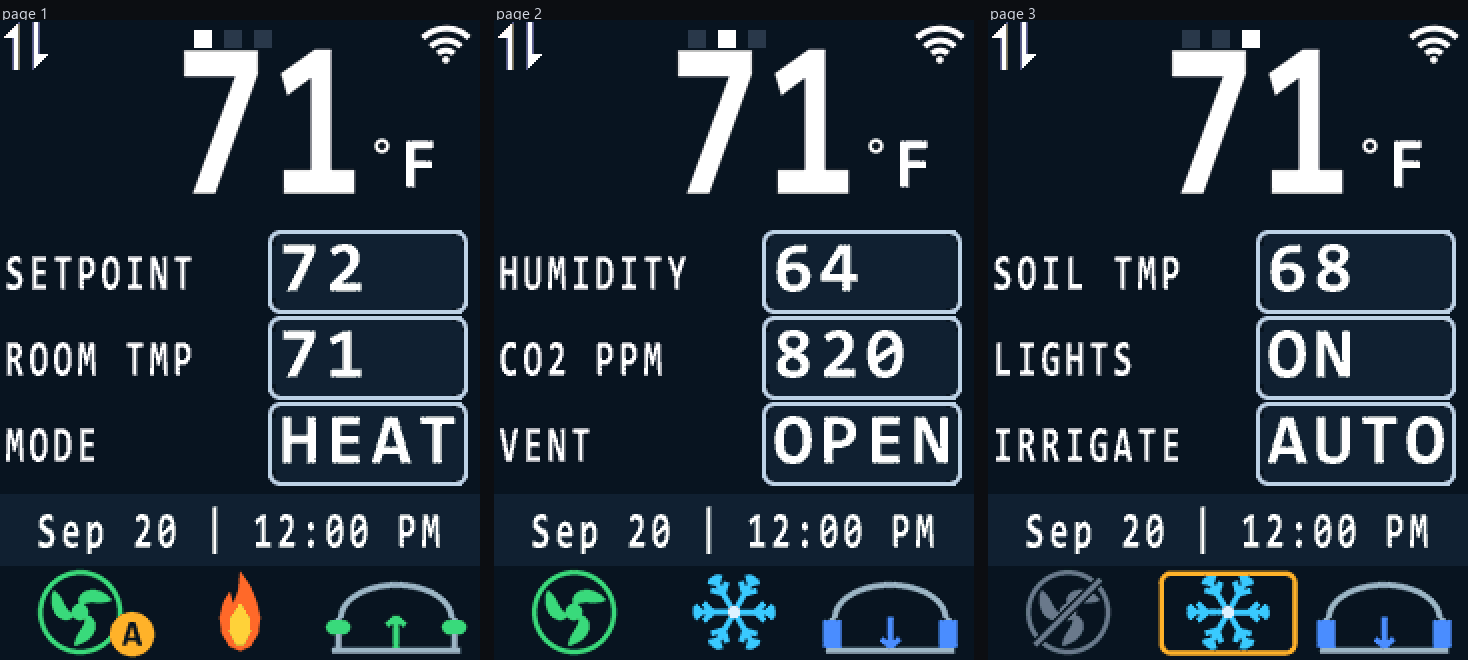
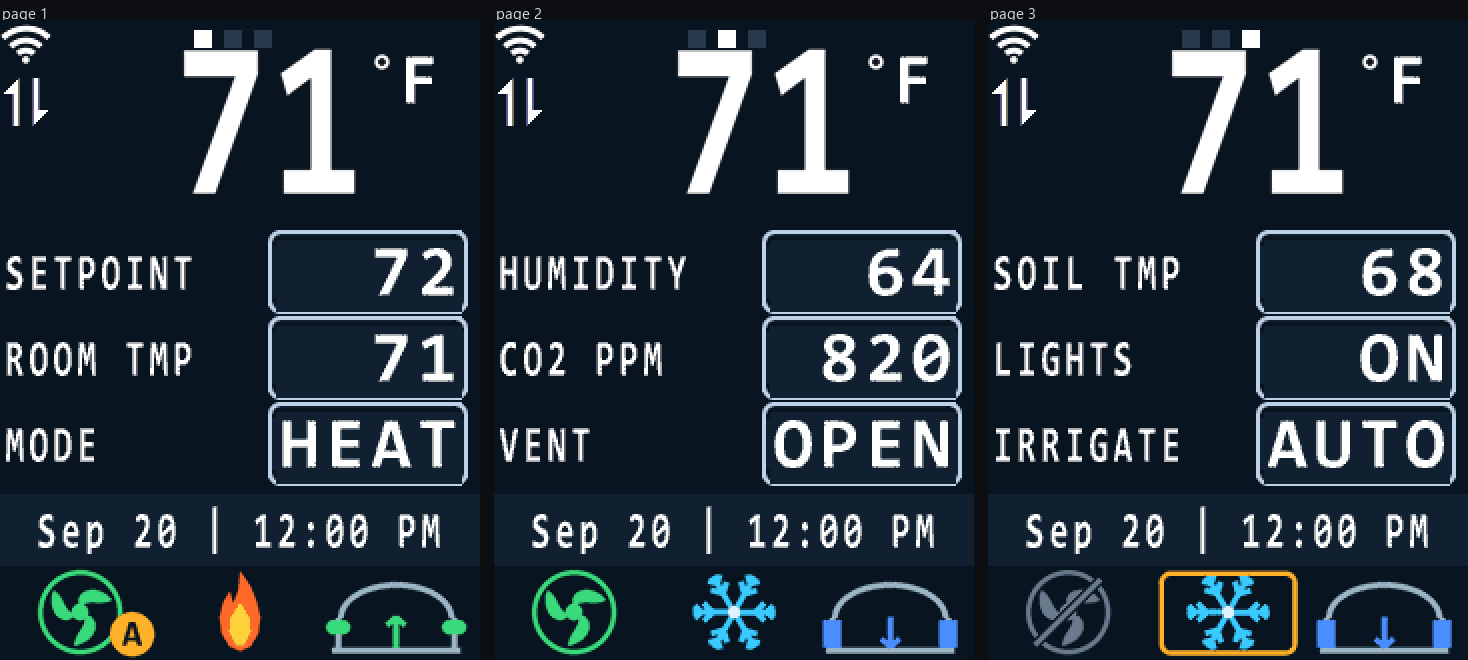
Link corner top left, unit at the cap line, values centred and right justified
Four layout changes.

The wifi bars move from the top right to the top left and the RS485 send
and receive arrows stack underneath them, so everything about the link is
in one corner.  Both sit left of FIRST_CH_POS (39), so the column is
clear of the big number for its whole height.

The unit moves from the foot of the number to its cap line.  The digits
are drawn from the top of a 96 dot cell but their ink only starts nine
rows in, so top aligning the unit means UNIT_YPOS is THERM_METER_POS +
CHLIB_CAP_TOP, not THERM_METER_POS.  All nine unit draw sites and both
degree rings move together.

The value text drops two dots so its ink centres in the box: draw_tangle()
runs the box from y-3 to y+40 and the 15x30 face inks rows 4 to 28 of its
cell, which sits two dots high without the offset.

A value shorter than four characters is right justified, so the units
column of a number stays in one place as the number grows.  That also
fixes a repaint bug: sprintf leaves a terminator part way along the
buffer, which stopped disp_str() before it repainted the rest of the box,
so going from AUTO to 72 left TO behind.  justify_value() squares the
full width off with spaces before shifting, which the old
spbuf[VALUE_CHARS] = 0 did not.

Every position is a named constant now rather than a literal, so the
simulator reads the same numbers the firmware compiles.

diff --git a/arm/HARDWARE/LCD/ER-TFT024-3_4-Wire_SPI.c b/arm/HARDWARE/LCD/ER-TFT024-3_4-Wire_SPI.c
@@ -782,6 +782,32 @@ void display_screen_value(uint8 type)
 
 /* The same, but the row and the VAR it shows are chosen separately, so a page
  * past the first can put VAR4 on row 1. */
+/* The value boxes are VALUE_CHARS cells wide and what lands in them runs from
+ * one character to four.  sprintf leaves a terminator part way along, which
+ * would stop disp_str() before it repainted the rest of the box and leave the
+ * tail of a longer previous value behind, so the full width is squared off with
+ * spaces first.  A short value is then pushed right, which keeps the units
+ * column of a number in one place as the number grows -- that is the column the
+ * eye tracks while a reading changes. */
+static void justify_value(uint8 *buf)
+{
+	uint8 len = 0, pad, i;
+
+	while(len < VALUE_CHARS && buf[len] != 0)
+		len++;
+	for(i = len;i < VALUE_CHARS;i++)
+		buf[i] = 0x20;
+	buf[VALUE_CHARS] = 0;
+
+	while(len > 0 && buf[len - 1] == 0x20)
+		len--;
+	pad = (uint8)(VALUE_CHARS - len);
+	if(len == 0 || pad == 0)
+		return;
+	for(i = VALUE_CHARS;i > 0;i--)
+		buf[i - 1] = (i > pad) ? buf[i - 1 - pad] : 0x20;
+}
+
 void display_screen_value_var(uint8 type, uint8 var_index)
 {
     int i = 0;
@@ -936,14 +962,14 @@ void display_screen_value_var(uint8 type, uint8 var_index)
 			}
     }
 		
-		spbuf[VALUE_CHARS] = 0;		// the box holds four, whatever sprintf produced
+		justify_value(spbuf);		// square the box off, then push a short value right
 
 		if(type == 1)	        
-			disp_str(FORM15X30, VALUE_XPOS, SETPOINT_POS, spbuf, SCH_COLOR, TSTAT8_MENU_COLOR2);
+			disp_str(FORM15X30, VALUE_XPOS, SETPOINT_POS + VALUE_YOFF, spbuf, SCH_COLOR, TSTAT8_MENU_COLOR2);
     else if (type == 2)
-			disp_str(FORM15X30, VALUE_XPOS, FAN_MODE_POS, spbuf, SCH_COLOR, TSTAT8_MENU_COLOR2);
+			disp_str(FORM15X30, VALUE_XPOS, FAN_MODE_POS + VALUE_YOFF, spbuf, SCH_COLOR, TSTAT8_MENU_COLOR2);
     else if (type == 3)
-      disp_str(FORM15X30, VALUE_XPOS, SYS_MODE_POS, spbuf, SCH_COLOR, TSTAT8_MENU_COLOR2);
+      disp_str(FORM15X30, VALUE_XPOS, SYS_MODE_POS + VALUE_YOFF, spbuf, SCH_COLOR, TSTAT8_MENU_COLOR2);
 }
 
 void display_SP(int16 disp_setpoint)
@@ -1872,51 +1898,51 @@ void Top_area_display(uint8 item, int16 value, uint8 unit)
     if(unit == TOP_AREA_DISP_UNIT_C)
 		{			
 			//disp_null_icon(240, 36, 0, 0,TIME_POS,TSTAT8_CH_COLOR, TSTAT8_MENU_COLOR2);
-			disp_icon(14, 14, degree_o, UNIT_POS - 14,56 ,TSTAT8_CH_COLOR, TSTAT8_BACK_COLOR);
+			disp_icon(14, 14, degree_o, UNIT_POS - 14,UNIT_YPOS ,TSTAT8_CH_COLOR, TSTAT8_BACK_COLOR);
 		
 			if(value>1000)
 				display_dec(0);
 			else
 				display_dec(0);
-				disp_str(FORM15X30, UNIT_POS,56,"C",TSTAT8_CH_COLOR,TSTAT8_BACK_COLOR);
+				disp_str(FORM15X30, UNIT_POS,UNIT_YPOS,"C",TSTAT8_CH_COLOR,TSTAT8_BACK_COLOR);
 		}
     else if(unit == TOP_AREA_DISP_UNIT_F)
 		{	
 			//disp_null_icon(240, 36, 0, 0,TIME_POS,TSTAT8_CH_COLOR, TSTAT8_MENU_COLOR2);
-			disp_icon(14, 14, degree_o, UNIT_POS - 14,56 ,TSTAT8_CH_COLOR, TSTAT8_BACK_COLOR);
+			disp_icon(14, 14, degree_o, UNIT_POS - 14,UNIT_YPOS ,TSTAT8_CH_COLOR, TSTAT8_BACK_COLOR);
 			if(value>1000)
 				display_dec(0);
 			else
 				display_dec(0);
-        disp_str(FORM15X30, UNIT_POS, 56, "F", TSTAT8_CH_COLOR, TSTAT8_BACK_COLOR);
+        disp_str(FORM15X30, UNIT_POS, UNIT_YPOS, "F", TSTAT8_CH_COLOR, TSTAT8_BACK_COLOR);
 		}
 		else if(unit == TOP_AREA_DISP_UNIT_RH)
 		{
 			display_dec(0);
-      disp_str(FORM15X30, UNIT_POS - 23, 56, "%R", TSTAT8_CH_COLOR, TSTAT8_BACK_COLOR);
+      disp_str(FORM15X30, UNIT_POS - 23, UNIT_YPOS, "%R", TSTAT8_CH_COLOR, TSTAT8_BACK_COLOR);
 		}
 		else if(unit == TOP_AREA_DISP_UNIT_PPM)
 		{display_dec(0);
-        disp_str(FORM15X30, UNIT_POS - 23, 56, "pp", TSTAT8_CH_COLOR, TSTAT8_BACK_COLOR);
+        disp_str(FORM15X30, UNIT_POS - 23, UNIT_YPOS, "pp", TSTAT8_CH_COLOR, TSTAT8_BACK_COLOR);
 		}
 		else if(unit == TOP_AREA_DISP_UNIT_PERCENT)
 		{display_dec(0);
-        disp_str(FORM15X30, UNIT_POS, 56, "%", TSTAT8_CH_COLOR, TSTAT8_BACK_COLOR);
+        disp_str(FORM15X30, UNIT_POS, UNIT_YPOS, "%", TSTAT8_CH_COLOR, TSTAT8_BACK_COLOR);
 		}
 		else if(unit == TOP_AREA_DISP_UNIT_kPa)
 		{display_dec(0);
-        disp_str(FORM15X30, UNIT_POS - 23, 56, "kP", TSTAT8_CH_COLOR, TSTAT8_BACK_COLOR);
+        disp_str(FORM15X30, UNIT_POS - 23, UNIT_YPOS, "kP", TSTAT8_CH_COLOR, TSTAT8_BACK_COLOR);
 		}
 		else if(unit == TOP_AREA_DISP_UNIT_Pa)
 		{display_dec(0);
-        disp_str(FORM15X30, UNIT_POS - 23, 56, "Pa", TSTAT8_CH_COLOR, TSTAT8_BACK_COLOR);
+        disp_str(FORM15X30, UNIT_POS - 23, UNIT_YPOS, "Pa", TSTAT8_CH_COLOR, TSTAT8_BACK_COLOR);
 		}		
 		else //if(unit == TOP_AREA_DISP_UNIT_NONE)
 		{display_dec(0);
-        disp_str(FORM15X30, UNIT_POS - 16, 56, "  ", TSTAT8_CH_COLOR, TSTAT8_BACK_COLOR);
+        disp_str(FORM15X30, UNIT_POS - 16, UNIT_YPOS, "  ", TSTAT8_CH_COLOR, TSTAT8_BACK_COLOR);
 		}
 //		else
-//			disp_str(FORM15X30, UNIT_POS,56,"F",TSTAT8_CH_COLOR,TSTAT8_BACK_COLOR);
+//			disp_str(FORM15X30, UNIT_POS,UNIT_YPOS,"F",TSTAT8_CH_COLOR,TSTAT8_BACK_COLOR);
 //		icon.unit = 0;
 //	}
 }

diff --git a/arm/MENU/menuIdle.c b/arm/MENU/menuIdle.c
@@ -140,9 +140,9 @@ static void show_page_rows(void)
 		page_index = 0;
 	base = page_var_base();
 
-	disp_str(FORM15X30, VALUE_XPOS,  SETPOINT_POS, "    ",SCH_COLOR,TSTAT8_MENU_COLOR2);
-	disp_str(FORM15X30, VALUE_XPOS,  FAN_MODE_POS, "    ",SCH_COLOR,TSTAT8_MENU_COLOR2);
-	disp_str(FORM15X30, VALUE_XPOS,  SYS_MODE_POS, "    ",SCH_COLOR,TSTAT8_MENU_COLOR2);
+	disp_str(FORM15X30, VALUE_XPOS,  SETPOINT_POS + VALUE_YOFF, "    ",SCH_COLOR,TSTAT8_MENU_COLOR2);
+	disp_str(FORM15X30, VALUE_XPOS,  FAN_MODE_POS + VALUE_YOFF, "    ",SCH_COLOR,TSTAT8_MENU_COLOR2);
+	disp_str(FORM15X30, VALUE_XPOS,  SYS_MODE_POS + VALUE_YOFF, "    ",SCH_COLOR,TSTAT8_MENU_COLOR2);
 
 	load_label(UI_DIS_LINE1, base);
 	load_label(UI_DIS_LINE2, base + 1);
@@ -654,20 +654,20 @@ void MenuIdle_display(void)
 			if(SSID_Info.IP_Wifi_Status == WIFI_NORMAL)//Show the wifi status in the top right of the screen
 			{
 				if(SSID_Info.rssi < 70)		
-					disp_icon(26, 26, wifi_4, 210,	0, TSTAT8_CH_COLOR, TSTAT8_BACK_COLOR);
+					disp_icon(WIFI_XDOTS, WIFI_YDOTS, wifi_4, WIFI_XPOS,	WIFI_YPOS, TSTAT8_CH_COLOR, TSTAT8_BACK_COLOR);
 				else if(SSID_Info.rssi < 80)							
-					disp_icon(26, 26, wifi_3, 210,	0, TSTAT8_CH_COLOR, TSTAT8_BACK_COLOR);
+					disp_icon(WIFI_XDOTS, WIFI_YDOTS, wifi_3, WIFI_XPOS,	WIFI_YPOS, TSTAT8_CH_COLOR, TSTAT8_BACK_COLOR);
 				else if(SSID_Info.rssi < 90)							
-					disp_icon(26, 26, wifi_2, 210,	0, TSTAT8_CH_COLOR, TSTAT8_BACK_COLOR);
+					disp_icon(WIFI_XDOTS, WIFI_YDOTS, wifi_2, WIFI_XPOS,	WIFI_YPOS, TSTAT8_CH_COLOR, TSTAT8_BACK_COLOR);
 				else							
-					disp_icon(26, 26, wifi_1, 210,	0, TSTAT8_CH_COLOR, TSTAT8_BACK_COLOR);
+					disp_icon(WIFI_XDOTS, WIFI_YDOTS, wifi_1, WIFI_XPOS,	WIFI_YPOS, TSTAT8_CH_COLOR, TSTAT8_BACK_COLOR);
 			}
 			else	if((SSID_Info.IP_Wifi_Status == WIFI_NO_CONNECT)
 				|| (SSID_Info.IP_Wifi_Status == WIFI_SSID_FAIL))
-					disp_icon(26, 26, wifi_0, 210,	0, TSTAT8_CH_COLOR, TSTAT8_BACK_COLOR);
+					disp_icon(WIFI_XDOTS, WIFI_YDOTS, wifi_0, WIFI_XPOS,	WIFI_YPOS, TSTAT8_CH_COLOR, TSTAT8_BACK_COLOR);
 				// if WIFI_NONE, do not show wifi flag
 			else //if((SSID_Info.IP_Wifi_Status == WIFI_NO_WIFI)
-				disp_icon(26, 26, wifi_none, 210,	0, TSTAT8_CH_COLOR, TSTAT8_BACK_COLOR);
+				disp_icon(WIFI_XDOTS, WIFI_YDOTS, wifi_none, WIFI_XPOS,	WIFI_YPOS, TSTAT8_CH_COLOR, TSTAT8_BACK_COLOR);
 			
 						
 			// show TX,RX
@@ -675,14 +675,14 @@ void MenuIdle_display(void)
 			if(flagLED_uart0_tx > 0)
 			{
 				if(count_tx++ % 2 == 0)
-					disp_icon(13, 26, cmnct_send, 	0,	0, TSTAT8_CH_COLOR, TSTAT8_BACK_COLOR);
+					disp_icon(LINK_XDOTS, LINK_YDOTS, cmnct_send, 	LINK_TX_XPOS,	LINK_YPOS, TSTAT8_CH_COLOR, TSTAT8_BACK_COLOR);
 				else
-					disp_null_icon(13, 26, 0, 0,0,TSTAT8_CH_COLOR, TSTAT8_BACK_COLOR);
+					disp_null_icon(LINK_XDOTS, LINK_YDOTS, 0, LINK_TX_XPOS,LINK_YPOS,TSTAT8_CH_COLOR, TSTAT8_BACK_COLOR);
 			}
 			else
 			{
 				count_tx = 0;
-				disp_null_icon(13, 26, 0, 0,0,TSTAT8_CH_COLOR, TSTAT8_BACK_COLOR);//(26, 26, cmnct_icon, 	0,	0, TSTAT8_CH_COLOR, TSTAT8_BACK_COLOR);
+				disp_null_icon(LINK_XDOTS, LINK_YDOTS, 0, LINK_TX_XPOS,LINK_YPOS,TSTAT8_CH_COLOR, TSTAT8_BACK_COLOR);//(26, 26, cmnct_icon, 	0,	0, TSTAT8_CH_COLOR, TSTAT8_BACK_COLOR);
 			}
 			
 			if(flagLED_uart0_rx > 0)
@@ -691,14 +691,14 @@ void MenuIdle_display(void)
 				if(count_tx % 2 == 1)
 					count_rx = 0;
 				if(count_rx++ % 2 == 1)
-					disp_icon(13, 26, cmnct_rcv, 	13,	0, TSTAT8_CH_COLOR, TSTAT8_BACK_COLOR);
+					disp_icon(LINK_XDOTS, LINK_YDOTS, cmnct_rcv, 	LINK_RX_XPOS,	LINK_YPOS, TSTAT8_CH_COLOR, TSTAT8_BACK_COLOR);
 				else
-					disp_null_icon(13, 26, 0, 13,0,TSTAT8_CH_COLOR, TSTAT8_BACK_COLOR);
+					disp_null_icon(LINK_XDOTS, LINK_YDOTS, 0, LINK_RX_XPOS,LINK_YPOS,TSTAT8_CH_COLOR, TSTAT8_BACK_COLOR);
 			}
 			else
 			{
 				count_rx = 0;
-				disp_null_icon(13, 26, 0, 13,0,TSTAT8_CH_COLOR, TSTAT8_BACK_COLOR);//(26, 26, cmnct_icon, 	0,	0, TSTAT8_CH_COLOR, TSTAT8_BACK_COLOR);
+				disp_null_icon(LINK_XDOTS, LINK_YDOTS, 0, LINK_RX_XPOS,LINK_YPOS,TSTAT8_CH_COLOR, TSTAT8_BACK_COLOR);//(26, 26, cmnct_icon, 	0,	0, TSTAT8_CH_COLOR, TSTAT8_BACK_COLOR);
 			}
 			
 			if(flagLED_uart0_tx > 0)

diff --git a/tools/screenshot.py b/tools/screenshot.py
@@ -164,18 +164,22 @@ def render(s, labels, values, top, unit, page, pages, clock, selected, icons):
     M2, HL = k['TSTAT8_MENU_COLOR2'], k['TSTAT8_BACK_COLOR1']
     s.clear(BG)
 
-    s.icon(13, 26, 'cmnct_send', 0, 0)
-    s.icon(13, 26, 'cmnct_rcv', 13, 0)
-    s.icon(26, 26, 'wifi_4', 210, 0)
+    # the link corner: wifi bars, and the RS485 arrows under them. The firmware
+    # only paints the arrows while there is traffic and blinks them; they are
+    # drawn unconditionally here because the render carries no traffic state.
+    s.icon(k['WIFI_XDOTS'], k['WIFI_YDOTS'], 'wifi_4', k['WIFI_XPOS'], k['WIFI_YPOS'])
+    s.icon(k['LINK_XDOTS'], k['LINK_YDOTS'], 'cmnct_send', k['LINK_TX_XPOS'], k['LINK_YPOS'])
+    s.icon(k['LINK_XDOTS'], k['LINK_YDOTS'], 'cmnct_rcv', k['LINK_RX_XPOS'], k['LINK_YPOS'])
 
     # whole degrees, at most three digits, right aligned with leading blanks
     n = max(-99, min(999, int(round(float(top)))))
     digits = '%3d' % n
     for col, xk in enumerate(('FIRST_CH_POS', 'SECOND_CH_POS', 'THIRD_CH_POS')):
         s.ch(0, k[xk], k['THERM_METER_POS'], digits[col], CH, BG)
-    # the degree ring is its own icon, with the letter beside it
-    s.icon(14, 14, 'degree_o', k['UNIT_POS'] - 14, 56)
-    s.text(1, k['UNIT_POS'], 56, unit[:1], CH, BG)
+    # the degree ring is its own icon, with the letter beside it, both top
+    # aligned with the cap line of the digits rather than sitting at their foot
+    s.icon(14, 14, 'degree_o', k['UNIT_POS'] - 14, k['UNIT_YPOS'])
+    s.text(1, k['UNIT_POS'], k['UNIT_YPOS'], unit[:1], CH, BG)
 
     rows = (k['SETPOINT_POS'], k['FAN_MODE_POS'], k['SYS_MODE_POS'])
     for y in rows:
@@ -185,7 +189,7 @@ def render(s, labels, values, top, unit, page, pages, clock, selected, icons):
         n = k['LABEL_CHARS']
         v = k['VALUE_CHARS']
         s.label(k['LABEL_XPOS'], y + k['LABEL_YOFF'], labels[i][:n].ljust(n), SCHC, back)
-        s.text(1, k['VALUE_XPOS'], y, values[i][:v].ljust(v), SCHC, M2)
+        s.text(1, k['VALUE_XPOS'], y + k['VALUE_YOFF'], values[i][:v].rjust(v), SCHC, M2)
     s.page_marks(page, pages)
 
     s.null_icon(240, 36, 0, k['TIME_POS'], M2)

diff --git a/arm/HARDWARE/LCD/LCD_TSTAT.h b/arm/HARDWARE/LCD/LCD_TSTAT.h
@@ -48,6 +48,30 @@
 
 
 
+/* The link indicators share the top left corner: the wifi bars, and under them
+ * the RS485 send and receive arrows.  Both sit left of FIRST_CH_POS (39), so
+ * the column is clear of the big number for its whole height. */
+#define WIFI_XPOS						0
+#define WIFI_YPOS						0
+#define WIFI_XDOTS						26
+#define WIFI_YDOTS						26
+#define LINK_XDOTS						13
+#define LINK_YDOTS						26
+#define LINK_TX_XPOS					0
+#define LINK_RX_XPOS					(LINK_TX_XPOS + LINK_XDOTS)
+#define LINK_YPOS						(WIFI_YPOS + WIFI_YDOTS + 2)
+
+/* The unit sits at the top of the number rather than at its foot.  The big
+ * digits are drawn from the top of a 96 dot cell but their ink only starts at
+ * the cap line, so top aligning the unit means starting at that line, not at
+ * THERM_METER_POS. */
+#define CHLIB_CAP_TOP					9
+#define UNIT_YPOS						(THERM_METER_POS + CHLIB_CAP_TOP)
+
+/* The value text sits two dots below the cell top so that its ink centres in
+ * the box draw_tangle() puts round it: the box runs y-3 to y+40 and the 15x30
+ * face inks rows 4 to 28 of its cell, which lands two dots high without it. */
+#define VALUE_YOFF						2
 /* The three state icons across the bottom.  Each is a 4 bit per pixel index
  * map with its own sixteen entry palette -- see tools/icongen.py -- so a 72x45
  * cell costs 1620 bytes instead of the 6480 the literal RGB565 icons cost, and

diff --git a/README.md b/README.md
@@ -96,6 +96,28 @@ than assuming one, and the box is anchored to the right edge because the page
 marks no longer live there. The 44 state words were shortened to fit, which also
 retired the original `NAORM` typo.
 
+### The link corner, the unit and the value boxes
+
+The wifi bars moved from the top right to the top left, with the RS485 send and
+receive arrows stacked underneath them, so everything about the link is in one
+corner. Both sit left of `FIRST_CH_POS`, which is x=39, so the column is clear
+of the big number for its whole height.
+
+The unit moved from the foot of the number to its cap line. The digits are drawn
+from the top of a 96 dot cell but their ink only starts nine rows in, so
+`UNIT_YPOS` is `THERM_METER_POS + CHLIB_CAP_TOP` rather than `THERM_METER_POS`.
+
+The value text drops two dots (`VALUE_YOFF`) so that its ink centres in the box:
+`draw_tangle()` runs the box from y-3 to y+40 and the 15x30 face inks rows 4 to
+28 of its cell, which sits two dots high without the offset.
+
+A value shorter than four characters is now right justified, so the units column
+of a number stays in one place as the number grows. That also fixed a repaint
+bug: `sprintf` leaves a terminator part way along the buffer, which stopped
+`disp_str()` before it repainted the rest of the box, so going from `AUTO` to
+`72` left `TO` behind. `justify_value()` squares the full width off with spaces
+before shifting.
+
 ### A clock instead of scrolling text
 
 `display_clock()` draws `Sep 20 | 12:00 PM` in the 12-dot face — date and time on
